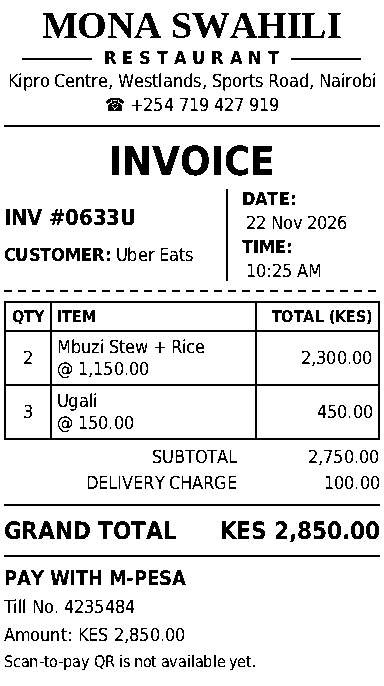
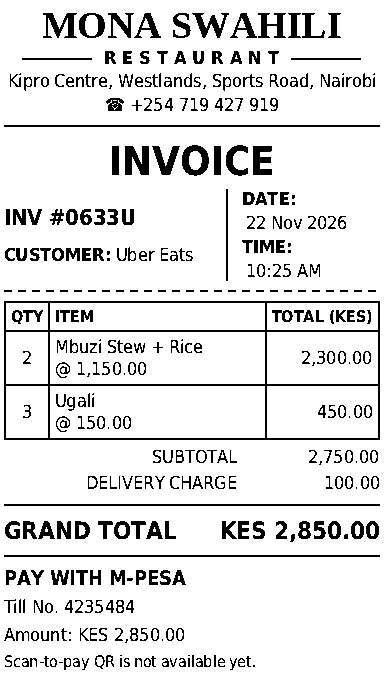
Size invoice and receipt money columns to their values
QTY, UNIT and TOTAL columns now shrink to their widest header or value and
the ITEM column takes the rest, so names like "Kenyan Tea / African Tea" fit
on one line at 80mm as in the approved design. Table headers use a slightly
smaller bold, as in the reference.

Claude-Session: https://claude.ai/code/session_01EFSccvqc6KGTaZrwUxoheo

diff --git a/src/printing/documents/rich-render.test.ts b/src/printing/documents/rich-render.test.ts
@@ -57,12 +57,12 @@ function inkBands(b: RichBitmap) {
 const GOLDEN: Record<string, string> = {
   "kot-80mm": "688944e1bbeec884",
   "bot-80mm": "ee550d7a230531b2",
-  "invoice-80mm": "a787fa148e1febd6",
-  "receipt-80mm": "6c09226a81f0127c",
+  "invoice-80mm": "53066a52e994b9aa",
+  "receipt-80mm": "d9e31d1d4f14dedc",
   "kot-58mm": "8b6e2ae860be3353",
   "bot-58mm": "38b2031a22756874",
-  "invoice-58mm": "0f46383205691e58",
-  "receipt-58mm": "7dd77414b652f080",
+  "invoice-58mm": "1424953570361dc0",
+  "receipt-58mm": "0ae134dc386bebfc",
 };
 
 describe("approved documents: visual regression", () => {
@@ -169,6 +169,51 @@ describe("approved documents: layout behaviour", () => {
         expect(ink(bitmap, bitmap.width - margin, y)).toBe(false);
       }
       expect(JSON.stringify(doc)).toContain(long);
+    }
+  });
+
+  it("sizes money columns to their values so names get the room and amounts never break", () => {
+    const lines = [
+      { name: "Kenyan Tea / African Tea", quantity: 1, unitPrice: 250 },
+      { name: "Whole roast goat for twenty guests", quantity: 12.5, unitPrice: 125000 },
+    ];
+    for (const paper of PAPERS) {
+      const doc = renderApprovedReceipt(
+        {
+          business: { name: "Mona Swahili Restaurant" },
+          receiptNumber: "RCP-1",
+          date: "22 Nov 2026",
+          time: "11:36 AM",
+          lines,
+          totals: { subtotal: 1562750, total: 1562750 },
+          payments: [{ method: "Card", amount: 1562750 }],
+          paid: 1562750,
+        },
+        { paper, currency: "KES" },
+      ).rich!;
+      const table = doc.blocks.find((b) => b.t === "table") as Extract<
+        RichDocument["blocks"][number],
+        { t: "table" }
+      >;
+      expect(table.cols.filter((c) => c.auto)).toHaveLength(paper === "80mm" ? 3 : 2);
+      const bitmap = renderRichDocument(doc, DOTS[paper]);
+      const margin = paper === "80mm" ? 8 : 4;
+      for (let y = 0; y < bitmap.height; y++) {
+        expect(ink(bitmap, margin - 1, y)).toBe(false);
+        expect(ink(bitmap, bitmap.width - margin, y)).toBe(false);
+      }
+      // On 80mm the reference item fits on one line: its row is as tall as a one-line row.
+      if (paper === "80mm") {
+        const one = renderRichDocument(
+          { ...doc, blocks: [{ ...table, rows: [table.rows[0]!] }] },
+          DOTS[paper],
+        ).height;
+        const header = renderRichDocument(
+          { ...doc, blocks: [{ ...table, rows: [["1", "Eggs", "250.00", "250.00"]] }] },
+          DOTS[paper],
+        ).height;
+        expect(one).toBe(header);
+      }
     }
   });
 

diff --git a/src/printing/documents/approved-rich.ts b/src/printing/documents/approved-rich.ts
@@ -208,10 +208,10 @@ function itemsTable(lines: SaleLine[], currency: string, paper: RichPaper): Rich
     return {
       t: "table",
       cols: [
-        { w: 10, align: "center" },
+        { w: 10, align: "center", auto: true },
         { w: 40 },
-        { w: 24, align: "right" },
-        { w: 26, align: "right" },
+        { w: 24, align: "right", auto: true },
+        { w: 26, align: "right", auto: true },
       ],
       head: ["QTY", "ITEM", `UNIT (${currency})`, `TOTAL (${currency})`],
       rows: lines.map((line) => [
@@ -223,7 +223,11 @@ function itemsTable(lines: SaleLine[], currency: string, paper: RichPaper): Rich
     };
   return {
     t: "table",
-    cols: [{ w: 12, align: "center" }, { w: 55 }, { w: 33, align: "right" }],
+    cols: [
+      { w: 12, align: "center", auto: true },
+      { w: 55 },
+      { w: 33, align: "right", auto: true },
+    ],
     head: ["QTY", "ITEM", `TOTAL (${currency})`],
     rows: lines.map((line) => [
       quantity(line.quantity),
